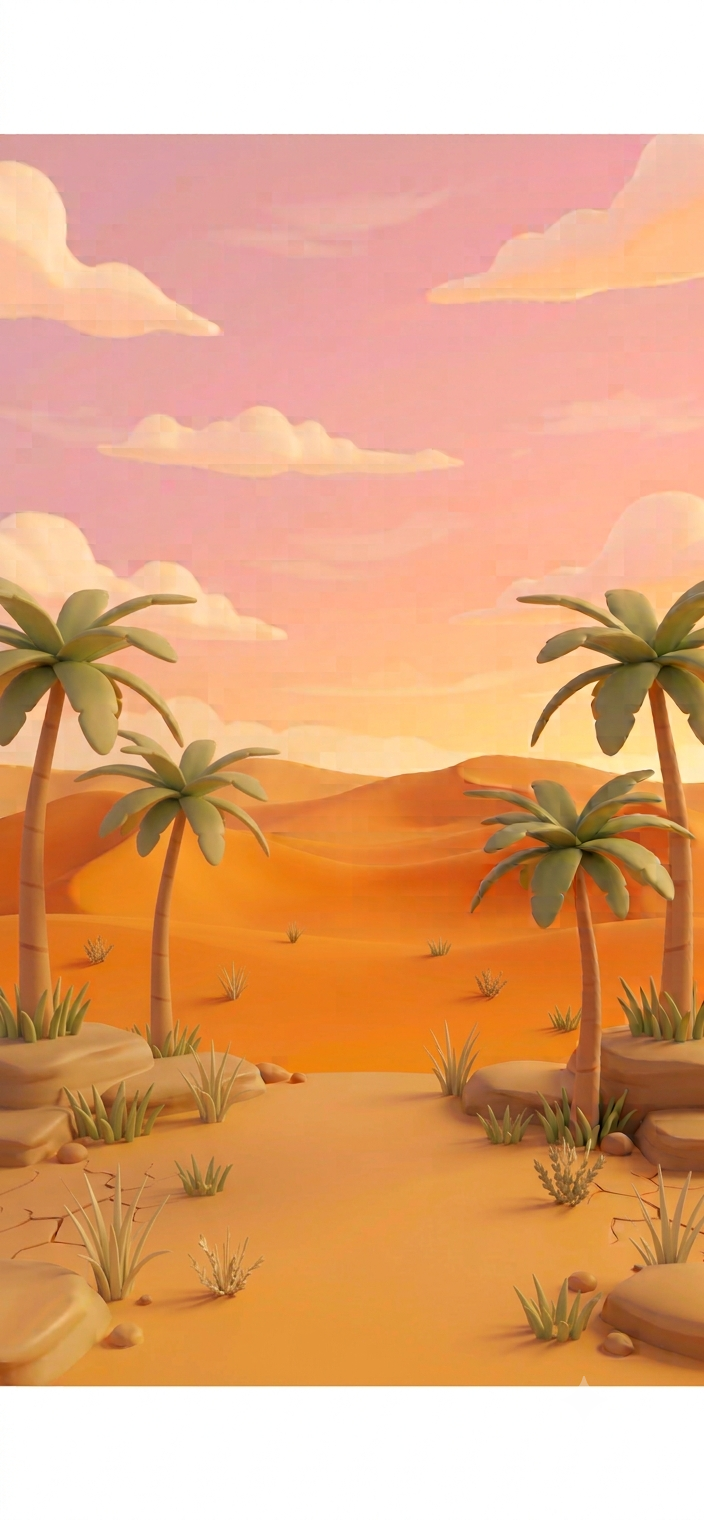
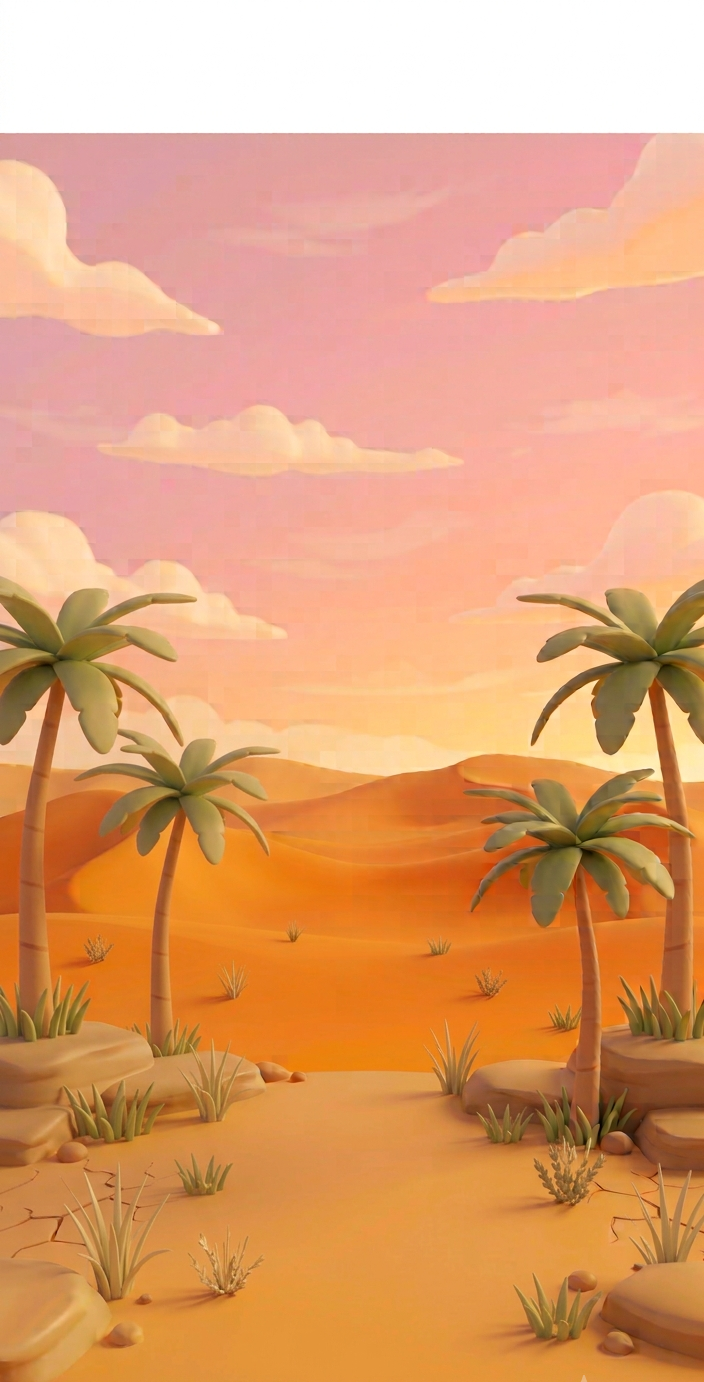
Describe your changes

diff --git a/lib/widgets/profile_header.dart b/lib/widgets/profile_header.dart
@@ -70,24 +70,38 @@ class _ProfileHeaderState extends State<ProfileHeader>
       final today = DateTime.now();
       final todayNormalized = DateTime(today.year, today.month, today.day);
 
-      setState(() {
-        _userName = profile?['name'] as String? ?? user.displayName ?? 'User';
-        _profileImageUrl = profile?['profileImage'] as String?;
-        _currentLevel = islandState.level;
-        _currentXP = islandState.points;
-        _requiredXP = islandState.pointsToNextLevel;
-        _currentStreak = checkInData?['currentStreak'] as int? ?? 0;
-        _checkedDays =
-            checkedDaysRaw.map((d) => DateTime.parse(d as String)).toList();
-        _hasCheckedInToday = _checkedDays.any((d) =>
-            d.year == today.year &&
-            d.month == today.month &&
-            d.day == today.day);
-        _isLoading = false;
+      final userName = profile?['name'] as String? ?? user.displayName ?? 'User';
+      final profileImageUrl = profile?['profileImage'] as String?;
+      final currentLevel = islandState.level;
+      final currentXP = islandState.points;
+      final requiredXP = islandState.pointsToNextLevel;
+      final currentStreak = checkInData?['currentStreak'] as int? ?? 0;
+      final checkedDays =
+          checkedDaysRaw.map((d) => DateTime.parse(d as String)).toList();
+      final hasCheckedInToday = checkedDays.any((d) =>
+          d.year == today.year &&
+          d.month == today.month &&
+          d.day == today.day);
+
+      WidgetsBinding.instance.addPostFrameCallback((_) {
+        if (!mounted) return;
+        setState(() {
+          _userName = userName;
+          _profileImageUrl = profileImageUrl;
+          _currentLevel = currentLevel;
+          _currentXP = currentXP;
+          _requiredXP = requiredXP;
+          _currentStreak = currentStreak;
+          _checkedDays = checkedDays;
+          _hasCheckedInToday = hasCheckedInToday;
+          _isLoading = false;
+        });
       });
     } catch (e) {
       if (!mounted) return;
-      setState(() => _isLoading = false);
+      WidgetsBinding.instance.addPostFrameCallback((_) {
+        if (mounted) setState(() => _isLoading = false);
+      });
     }
   }
 

diff --git a/lib/screens/island_screen.dart b/lib/screens/island_screen.dart
@@ -3,6 +3,9 @@ import 'package:flutter/material.dart';
 import '../models/island_state.dart';
 import '../services/firestore_service.dart';
 import '../services/pet_service.dart';
+import 'package:firebase_auth/firebase_auth.dart';
+import '../services/firestore_service.dart';
+
 import '../widgets/profile_header.dart';
 
 class IslandScreen extends StatefulWidget {
@@ -19,10 +22,19 @@ class _IslandScreenState extends State<IslandScreen> {
   String? _companionAsset;
   bool _isLoading = true;
   String? _error;
+  String? _companionAsset;
+
+  static const _companionMap = {
+    'Home 1': 'home 1.png',
+    'Home 2': 'home 2.png',
+    'Home 3': 'home 3.png',
+    'Home 4': 'home 4.png',
+  };
 
   @override
   void initState() {
     super.initState();
+
     _loadData();
   }
 
@@ -61,6 +73,24 @@ class _IslandScreenState extends State<IslandScreen> {
         _error = e.toString();
       });
     }
+
+    _loadCompanion();
+  }
+
+  Future<void> _loadCompanion() async {
+    final user = FirebaseAuth.instance.currentUser;
+    if (user == null) return;
+
+    final profile = await _firestoreService.getUserProfile(user.uid);
+    if (profile == null) return;
+
+    final selectedPet = profile['selectedPet'] as String? ?? '';
+    final asset = _companionMap[selectedPet] ?? 'home 1.png';
+
+    if (!mounted) return;
+    WidgetsBinding.instance.addPostFrameCallback((_) {
+      if (mounted) setState(() => _companionAsset = asset);
+    });
   }
 
   @override
@@ -78,6 +108,15 @@ class _IslandScreenState extends State<IslandScreen> {
             const ProfileHeader(),
             Expanded(
               child: _buildBody(),
+              child: Center(
+                child: _companionAsset == null
+                    ? const CircularProgressIndicator()
+                    : Image.asset(
+                        'assets/images/${_companionAsset!}',
+                        width: double.infinity,
+                        height: double.infinity,
+                      ),
+              ),
             ),
           ],
         ),